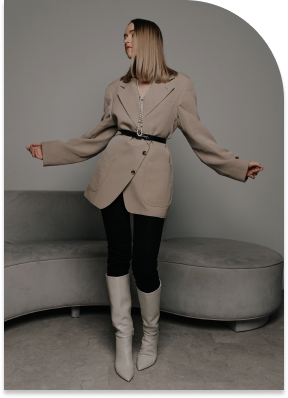
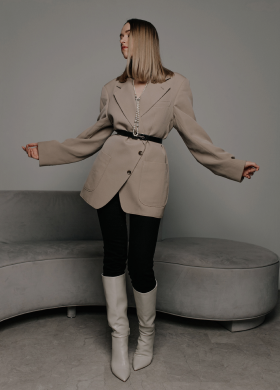
header style

diff --git a/src/sass/layout/_header.scss b/src/sass/layout/_header.scss
@@ -31,7 +31,7 @@
 .header {
     padding-top: 50px;
     padding-bottom: 50px;
-    background-color: #070606;;
+    background-color: rgb(22, 23, 23)
  
 }
 
@@ -47,9 +47,12 @@
 .humb-icon {
     fill: #FFFFFF;
     stroke:#FFFFFF;
+width: 100%;
+    height: 100%;
 }
 .navigation {
     display: flex;
+    align-items: flex-start;
     justify-content: space-between;
 }
 .menu-toggle {
@@ -57,23 +60,64 @@
     color: red;
     border: none;
     padding: 0;
-    width: 20px;
-    height: 20px;
+    // width: 20px;
+    // height: 20px;
     z-index: 10;
 }
 .personal__stylist-picture {
     width: 280px;
     height: 390px;
+    justify-content: center;
+    border-radius: 0px 100px 0px 0px;
+    filter: drop-shadow(0px 4px 4px rgba(0, 0, 0, 0.25));
 
 }
 .section__hero {
+    display: flex;
+    justify-content: center;
     margin-top: 75px;
 }
 .hero__container {
-    position: relative;
+
+position: relative;
+    color: white;
+    
 }
+// .hero__picture {
+//     justify-content: center;
+// }
+
+// .hero__content_center {
+//     position: relative;
+//     // height: 30px;
+//         // display: flex;
+//             // height: 19px;
+// }
 .hero__title {
-    font-family: 'Agreverance';
+    position: absolute;
+        top: 23%;
+        // left: 50%;
+    //     transform: translate(-50%, -50%);
+font-family: 'Agreverance';
+    font-style: normal;
+    font-weight: 400;
+    font-size: 45px;
+    line-height: 40px;
+    /* or 89% */
+
+    text-align: center;
+    letter-spacing: 0.05em;
+
+    color: #C09C8D;
+
+    opacity: 0.1;
+    right: -5%;
+}
+.hero__title-2 {
+    position: absolute;
+        top: 27%;
+   
+    font-family: 'AGReverance';
         font-style: normal;
         font-weight: 400;
         font-size: 35px;
@@ -83,5 +127,11 @@
         text-align: center;
         letter-spacing: 0.05em;
         text-transform: uppercase;
+    
+        /* text */
+    
         color: #FFFFFF;
+    
+        opacity: 0.9;
 }
+

diff --git a/src/partials/header.html b/src/partials/header.html
@@ -16,8 +16,7 @@
     </nav>
     <section class="section__hero">
       <div class="hero__container">
-        <h1 class="hero__title">ПЕРСОНАЛЬНИЙ СТИЛІСТ</h1>
-        <picture>
+        <picture class="hero__picture">
           <source
             srcset="
               ./images/personal-stylist-desktop-1x.png 1x,
@@ -45,6 +44,10 @@
             alt=" personal stylist uzhgorod"
           />
         </picture>
+        <div class="hero__content_center">
+          <h1 class="hero__title">ПЕРСОНАЛЬНИЙ СТИЛІСТ</h1>
+          <h2 class="hero__title-2">ПЕРСОНАЛЬНИЙ СТИЛІСТ</h2>
+        </div>
       </div>
     </section>
   </div>
